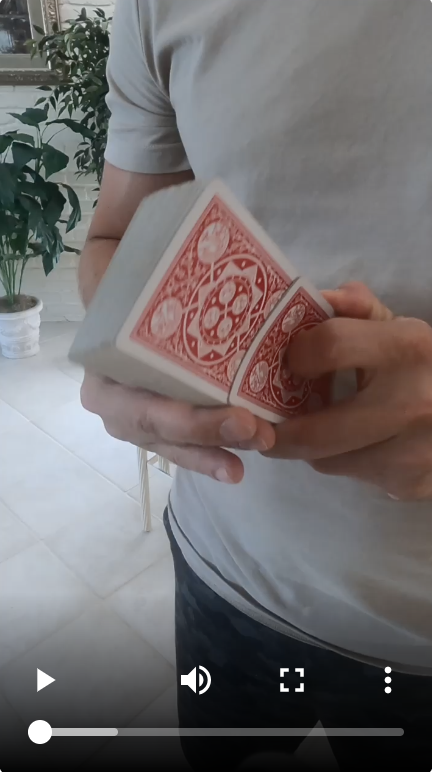
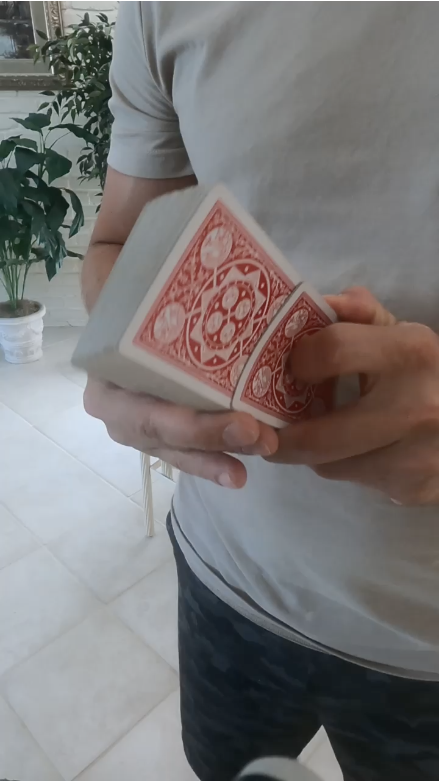
added video posters

diff --git a/templates/cards.html b/templates/cards.html
@@ -310,6 +310,8 @@
 			}
 			c.style.transition = ".25s";
 		}
+		let displayVideo = document.getElementById("display_video");
+		let v = 0, p = 1; //video/poster
 		if (which_arrow) { //left
 			if (carouselIndex === 0) {
 				return;
@@ -317,8 +319,8 @@
 				changeCircle(carouselIndex, false);
 				carouselIndex--;
 				changeCircle(carouselIndex, true);
-				document.getElementById("display_video").src = videos[carouselIndex];
-				document.getElementById("display_video").poster = "{% static 'onePoster.png' %}"
+				displayVideo.src = videos[carouselIndex][v];
+				displayVideo.poster = videos[carouselIndex][p];
 			}
 		} else {
 			if (carouselIndex === (videos.length-1)) {
@@ -327,7 +329,8 @@
 				changeCircle(carouselIndex, false);
 				carouselIndex++;
 				changeCircle(carouselIndex, true);
-				document.getElementById("display_video").src = videos[carouselIndex];
+				displayVideo.src = videos[carouselIndex][v];
+				displayVideo.poster = videos[carouselIndex][p];
 			}
 		}
 	}
@@ -1069,7 +1072,7 @@
 	var collectionTab = document.getElementById("collection");
 	var tricksTab = document.getElementById("tricks");
 	var logo = document.getElementById("logo_wrapper");
-	var videos = ["{% static 'magicOne.mov' %}", "{% static 'magicTwo.mov' %}", "{% static 'magicThree.mov' %}", "{% static 'magicFour.mov' %}", "{% static 'magicFive.mov' %}", "{% static 'magicSix.mov' %}"];
+	var videos = [["{% static 'magicOne.mov' %}", "{% static 'onePoster.png' %}"], ["{% static 'magicTwo.mov' %}", "{% static 'twoPoster.png' %}"], ["{% static 'magicThree.mov' %}", "{% static 'threePoster.png' %}"], ["{% static 'magicFour.mov' %}", "{% static 'fourPoster.png' %}"], ["{% static 'magicFive.mov' %}", "{% static 'fivePoster.png' %}"], ["{% static 'magicSix.mov' %}", "{% static 'sixPoster.png' %}"]];
 	var carouselIndex;
 	var creatingElements = false; //used to ensure user cant click on a result while they are still being created/displayed on screen
 	var browser = detectBrowser();
